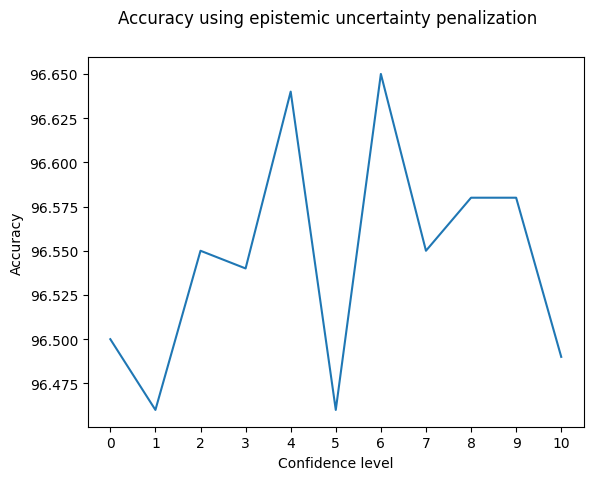
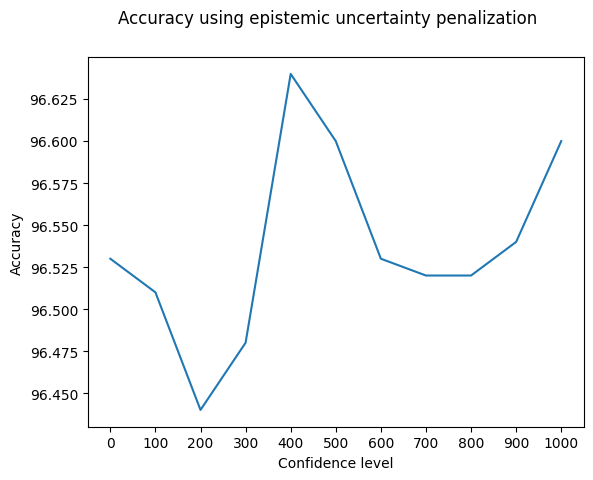
Chapter on classification with uncertainty

diff --git a/drafting/TextFiles/Classification uncertainty/Penalization.tex b/drafting/TextFiles/Classification uncertainty/Penalization.tex
@@ -1,0 +1,31 @@
+\section{Uncertainty penalization}
+
+The last classification approach explored differs substantially from its predecessors. In this new paradigm, the primary objective is no longer the implementation of an "I don't know" behavior; instead, the focus shifts towards consistently generating predictions at all the times. This approach can be useful in contexts where the application is non-critical, placing a greater importance on obtaining an output, even if erroneous. This is due the fact that a system interruption could potentially result in higher economic losses than a wrong prediction.
+
+The idea to achieve this objective involves assigning penalties to the individual components of the predicted vector based on their associated uncertainties. During the classification process, the class with the highest probability prediction is chosen. By introducing penalization that accounts for the probabilities uncertainty, it could be feasible to redistribute information. For example, when the two highest probabilities exhibit close values, such as $0.30$ and $0.31$, the conventional prediction would favor the second class. However, it's possible that the uncertainty linked to the second value is higher. Through this penalization mechanism, the classification outcome could potentially shift to favor the first class instead.
+
+The experiments were done with both the aleatoric and epistemic uncertainties. Let be $s_i$ the uncertainty of the probability $p_i$, the penalized value is $p_i^* = \frac{p_i}{1 + s_i \cdot \alpha}$, where $\alpha$ is intended to be the confidence level, accentuating the significance of the penalization. The $1$ in the denominator is added to avoid a division by $0$ in case of $s_i$ very close to $0$.
+
+In \Fig~\ref{fig:aleat_penalization} are shown the results when the aleatoric uncertainty is employed. It is evident that there are no improvements for any confidence level. The accuracy stays around the nominal value. The observed fluctuations are due to the inherent stochastic nature of the network.It is worth noting that the observed changes remain in the vicinity of approximately $0.2\%$, which is not a significant impact. The same behavior is observed when using the epistemic uncertainty, as illustrated in \Fig~\ref{fig:epis_penalization}. This results demonstrate that with a BNN it is not possible to gain more information from the uncertainty, it is only possible to determine when the network is not sure and therefore it does not know what to output.
+
+These results shows that with a BNN is not able to extract additional information from uncertainty. Instead, it can only be used as an indicator of the network inability to produce confident outputs.
+
+\begin{figure}[h]
+	\centering
+	\begin{subfigure}{.5\textwidth}
+		\centering
+		\includegraphics[width=0.8\linewidth]{ImageFiles/ClassifUncer/aleat_penalization}
+		\caption{Accuracy trend with aleatoric uncertainty penalization}
+		\label{fig:aleat_penalization}
+	\end{subfigure}%
+	\begin{subfigure}{.5\textwidth}
+		\centering
+		\includegraphics[width=0.8\linewidth]{ImageFiles/ClassifUncer/epis_penalization}
+		\caption{Accuracy trend with epistemic uncertainty penalization}
+		\label{fig:epis_penalization}
+	\end{subfigure}
+	\caption{Performances of the BNN with uncertainty penalization}
+	\label{fig:penalization_class}
+\end{figure}
+
+Therefore, it is possible to assess that this approach does not yield to any performance improvement, and as a result, it will be excluded from the subsequent analysis.

diff --git a/drafting/TextFiles/Classification uncertainty/Deviation.tex b/drafting/TextFiles/Classification uncertainty/Deviation.tex
@@ -1,0 +1,58 @@
+\section{Standard deviation}
+
+The initial two analyses conducted can be considered general and applicable universally, as the computed quantities consistently have the same interpretation. Our focus now is to utilize the standard deviation of the predicted distribution, considering it as a categorical distribution where the classes are interpreted as numerical values.
+
+This concept can be formalized by introducing $Y$ as the output variable, capable of assuming integer values within the range $[0,9]$, with probabilities denoted as $p_i$ to assume the value $i$, which are predicted by the network. The expected value of this variable can be computed as follows:
+
+\[
+	E[Y] = \sum_{i=0}^{9} i \cdot p_i
+\]
+
+Following the definition of variance, we arrive at:
+
+\[
+	Var[Y] = E[(Y - E[Y])^2] = \sum_{i=0}^{9} (i - E[Y])^2 \cdot p_i = \sigma^2
+\]
+
+To obtain the desired metric, we simply take the square root of the variance:
+
+\[
+	sd[Y] = \sqrt{Var[Y]} = \sigma
+\]
+
+It's important to highlight that this metric diverges from the previous one due to its reliance on the specific domain; for instance, it might not be easily applicable to tasks involving a hundred of classes instead of ten. In this case the application is intuitive since the task is to classify digits. However, such intuitive alignment may not be easily transferable to other tasks, such as animal classification.
+
+Following the same procedure of the previous cases we tried to identify a reasonable range for the threshold regarding the standard deviation. This metric allows the determination of an upper and a lower bound:
+
+\begin{itemize}
+	\item Case minimum uncertainty: $\hat{p}$ has all terms equal to 0 except one with is 1. This leads to $\sigma=0$.
+	\item Case maximum uncertainty: $\hat{p}$ has all values the same. In this case it results $\sigma = 2.87$.
+\end{itemize}
+
+The threshold is defined as linear function of the desired confidence level, as the previously:
+
+\[
+	threshold = 2.87 * (1 - conf \_ level), \ with \ con \_ level \in [0,1]
+\]
+
+The outcomes of this approach are visually illustrated in \Fig~\ref{fig:std_class}. It is possible to note that the accuracy, (\Fig~\ref{fig:std_acc}), have a smoother behavior than the previous cases. The maximum accuracy reached is around $99.4\%$, showcasing a marginal improvement over the aleatoric uncertainty. The better behavior can be attributed to the utilization of a more specific domain metric. However, as before, a deeper analysis is necessary to validate its effectiveness.
+In \Fig~\ref{fig:std_unk} it is shown the trend of the unknowns values, which increases when the confidence level is increased as expected.
+The case $conf_level=1$ leads again to a complete loss of the network usefulness.
+
+\begin{figure}[h]
+	\centering
+	\begin{subfigure}{.5\textwidth}
+		\centering
+		\includegraphics[width=0.8\linewidth]{ImageFiles/ClassifUncer/std_acc}
+		\caption{Accuracy trend when the confidence level is increased}
+		\label{fig:std_acc}
+	\end{subfigure}%
+	\begin{subfigure}{.5\textwidth}
+		\centering
+		\includegraphics[width=0.8\linewidth]{ImageFiles/ClassifUncer/std_unk}
+		\caption{Unknown ratio trend when the confidence level is increased}
+		\label{fig:std_unk}
+	\end{subfigure}
+	\caption{Performances of the BNN using the standard deviation during classification}
+	\label{fig:std_class}
+\end{figure}

diff --git a/drafting/TextFiles/Classification uncertainty/Epistemic.tex b/drafting/TextFiles/Classification uncertainty/Epistemic.tex
@@ -1,6 +1,6 @@
 \section{Epistemic uncertainty}
 
-We now focus into the analysis of epistemic uncertainty. While this form of uncertainty pertains to the model itself rather than the input data, we want to investigate this aspect. Epistemic uncertainty is computed as:
+The second analysis is about the epistemic uncertainty. While this form of uncertainty pertains to the model itself rather than the input data, we want to investigate this aspect. Epistemic uncertainty is computed as:
 
 \[
 	epistemic = diag\{\frac{1}{T} \sum_{t=1}^{T} [\hat{p}_t - \bar{p}]^{\otimes 2}\}
@@ -12,7 +12,9 @@ In this context, establishing an explicit upper limit for the uncertainty is not
 	threshold = 0.02 * (1 - conf \_ level), \ with \ con \_ level \in [0,1]
 \]
 
-The outcomes of the conducted experiments are visually shown in \Fig~\ref{fig:epistemic_class}, offering different insights into this scenario. In \Fig~\ref{fig:epistemic_acc}, the shift in accuracy corresponding to decreasing thresholds is showcased. As anticipated, an absence of confidence ($conf_level = 0$) yields an accuracy approximately aligning with the nominal value. Conversely, a complete confidence level ($1$) results in an accuracy raises to $100\%$, attributed to the fact that all predictions are discarded as unknown. This phenomenon is highlighted further in \Fig~\ref{fig:epistemic_unk}, which delineates the trajectory of unknown values. Indeed, with a confidence level set to $1$, the proportion of unknown values escalates to $100\%$, effectively indicating the inefficacy of the predictions.
+The outcomes of the conducted experiments are visually shown in \Fig~\ref{fig:epistemic_class}, offering different insights into this scenario.
+
+In \Fig~\ref{fig:epistemic_acc}, the shift in accuracy corresponding to decreasing thresholds is showcased. As anticipated, an absence of confidence ($conf_level = 0$) yields an accuracy approximately aligning with the nominal value. Conversely, a complete confidence level ($1$) results in an accuracy raises to $100\%$, attributed to the fact that all predictions are discarded as unknown. This phenomenon is highlighted further in \Fig~\ref{fig:epistemic_unk}, which delineates the trajectory of unknown values. Indeed, with a confidence level set to $1$, the proportion of unknown values escalates to $100\%$, effectively indicating the inefficacy of the predictions.
 
 \begin{figure}[h]
 	\centering
@@ -31,6 +33,5 @@ The outcomes of the conducted experiments are visually shown in \Fig~\ref{fig:ep
 	\caption{Performances of the BNN using the epistemic uncertainty during classification}
 	\label{fig:epistemic_class}
 \end{figure}
-
 
 An interesting fact worth to highlight here is the smoother incremental pattern observed in the accuracy progression. Specifically, as shown in \Fig~\ref{fig:epistemic_acc}, the accuracy gradually ascends to approximately $98.5\%$ at a confidence level of $0.9$, before making a jump to the trivial case of perfect accuracy ($100\%$) at full confidence ($1$). It is noteworthy that in the previous instance, the highest achievable accuracy was around $99.0\%$. While the difference may not be substantial, it implies an underlying distinction that might be hidden due to the already elevated accuracy values. A more comprehensive exploration of the efficacy of these approaches will be conducted later in this study.

diff --git a/drafting/TextFiles/Classification uncertainty/Aleatoric.tex b/drafting/TextFiles/Classification uncertainty/Aleatoric.tex
@@ -9,7 +9,7 @@ A key point is the determination of the threshold value. In order to do this, th
 
 \begin{itemize}
 	\item Case minimum uncertainty: This happens when $\hat{p}$ has all terms equal to 0 except one with is 1, and its position identifies the predicted class. Applying the formula it results in $aleatoric = 0$, that aligns the hypothesis made. 
-	\item Case maximum uncertainty: The prediction is uncertain when $\hat{p}$ has all values the same one. In particular the value is $\frac{1}{m}$, where m is the number of classes to predict. In this case the uncertainty is $aleatoric = \frac{m-1}{m^2}$, for this specific case study $m = 10$, therefore $aleatoric = 0.09$.
+	\item Case maximum uncertainty: The prediction is uncertain at the maximum level when $\hat{p}$ has all values the same one. In particular the value is $\frac{1}{m}$, where m is the number of classes to predict. In this case the uncertainty is $aleatoric = \frac{m-1}{m^2}$, for this specific case study $m = 10$, therefore $aleatoric = 0.09$.
 \end{itemize}
 
 Given the upper and lower bounds, a linear interpolation is employed to calculate the threshold value based on the desired confidence level. This method allows for the estimation of an appropriate threshold that aligns with the desired confidence level. 

diff --git a/drafting/TextFiles/Classification uncertainty/Comparison.tex b/drafting/TextFiles/Classification uncertainty/Comparison.tex
@@ -1,0 +1,7 @@
+\section{Comparison}
+
+This section aims to compare and provide commentary on the presented approaches. Clearly, utilizing the standard deviation emerges as the more effective choice compared to the other methods. This superiority can be attributed to the higher precision and specificity of this metric. Additionally, the application of aleatoric uncertainty yields favorable outcomes, whereas epistemic uncertainty exhibits slightly inferior performance. The lower performance of the epistemic uncertainty was expected, given its reliance on the model rather than the input data.
+
+In contrast, the uncertainty penalization approach proved to be ineffective, aligning with the notion that uncertainty is a metric about something unknown and, as such, cannot be used to acquire further information. Consequently, this approach will be abandoned.
+
+Subsequent phases of this study will involve employing the classification strategies that implement the "I don't know" behavior. These methodologies will serve to assess the network robustness, which is the core objective of this research. A comprehensive evaluation of their efficacy will done.

diff --git a/drafting/Tesi.tex b/drafting/Tesi.tex
@@ -89,8 +89,10 @@
 	However, some applications may need to make decisions at all times. Therefore, an alternative approach will be explored where classification is performed by penalizing the most uncertain output classes. This allows for decision-making even when uncertainty is present.
 	
 	\import{./TextFiles/Classification uncertainty/}{Aleatoric.tex}
-	
 	\import{./TextFiles/Classification uncertainty/}{Epistemic.tex}
+	\import{./TextFiles/Classification uncertainty/}{Deviation.tex}
+	\import{./TextFiles/Classification uncertainty/}{Penalization.tex}
+	\import{./TextFiles/Classification uncertainty/}{Comparison.tex}
 	
 	\bibliographystyle{ieeetr}
 	
